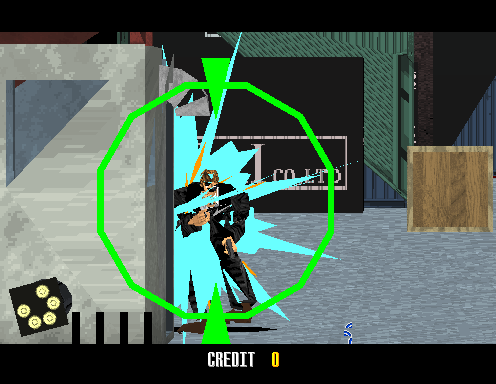
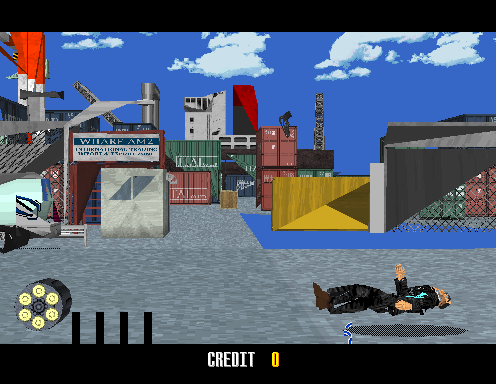
Bump model2recomp: textures wrap, sprites have shapes
The scene was being read as bad geometry and it was the rasterizer.
Texture coordinates were clamped instead of wrapped, smearing one
texel across every tiled surface, and translucency was ignored, so
every sprite drew as an opaque rectangle of its texture's background.

New screenshots for all three. The wharf's sign, containers and
chain-link fence are legible, the clouds have edges, and the revolver
cylinder in the HUD is a cylinder with six rounds in it rather than a
block.

Claude-Session: https://claude.ai/code/session_01YVeaVrvEGYRqvy8EiHFsVe

diff --git a/docs/technical/known-issues.md b/docs/technical/known-issues.md
@@ -113,7 +113,35 @@ flat fill covered the entire screen: text, 3D and all. That fill is what the
 
 ---
 
-## 4. Getting into a stage
+## 4. Textures and translucency — fixed
+
+**Was:** whole walls and ground planes looked like one stretched streak, and
+every sprite-like polygon drew as an opaque rectangle — clouds on yellow
+squares, a block over the HUD's revolver cylinder, the bullets at the bottom of
+the screen unreadable as bullets.
+
+Both were in model2recomp's rasterizer, and both are one-liners.
+
+**Texture coordinates always wrap.** `model2rd.ipp` masks with
+`tex_width - 1` unconditionally; the texture header's "smooth wrap" bits only
+pick how the *bilinear* filter behaves at the seam. Treating them as a wrap
+enable and clamping otherwise smears the edge texel across everything past the
+texture.
+
+**Translucency is three mechanisms, and all three were ignored.** The hardware
+has no alpha blend. `texheader[0]` bit 13 with bit 14 makes texel `0xF` the
+transparent index; bit 13 without bit 14 means draw nothing; bit 15 is a 50%
+checkerboard stipple.
+
+The attract frame goes from about 220 distinct colours to 500.
+
+What is still missing is the filtering: point sampling, no bilinear, no
+mipmaps, no microtexture. Without mipmaps a minified texture aliases, so
+ground planes and distant walls are noisier than the hardware's.
+
+---
+
+## 5. Getting into a stage
 
 The game boots, runs its attract cycle, takes a coin and a start, draws the
 stage select, and plays: `MODEL2_INPUT=coin1,start1,fire` reaches the wharf in
@@ -133,7 +161,7 @@ part-way is not established.
 
 ---
 
-## 5. Coins do not become credits
+## 6. Coins do not become credits
 
 The board defaults to **free play** without its settings EEPROM, so the game
 starts on Start alone and never needs a credit. Input itself works end to end:
@@ -147,7 +175,7 @@ settings area.
 
 ---
 
-## 6. No sound
+## 7. No sound
 
 **Symptom.** Silence.
 

diff --git a/README.md b/README.md
@@ -45,7 +45,7 @@ the matrices, and model2recomp's rasterizer draws it.*
 | Boot | Full chain: reset stub → IAC reinitialize → firmware entry → `main` |
 | Frame loop | The game's own, at its video-status busy-wait |
 | Interrupts | VBlank handler dispatched at the field boundary |
-| Geometry + rasterizer | Working — textured, lit, z-sorted |
+| Geometry + rasterizer | Working — textured, lit, z-sorted, translucency and texture wrap correct |
 | Tilemaps | Working — four System 24 layers, two passes around the 3D |
 | Math coprocessor | Working — MB86233 emulated, runs the game's microcode |
 | Input | **Working.** Mouse is the lightgun; coin, start, service and test reach the game |
